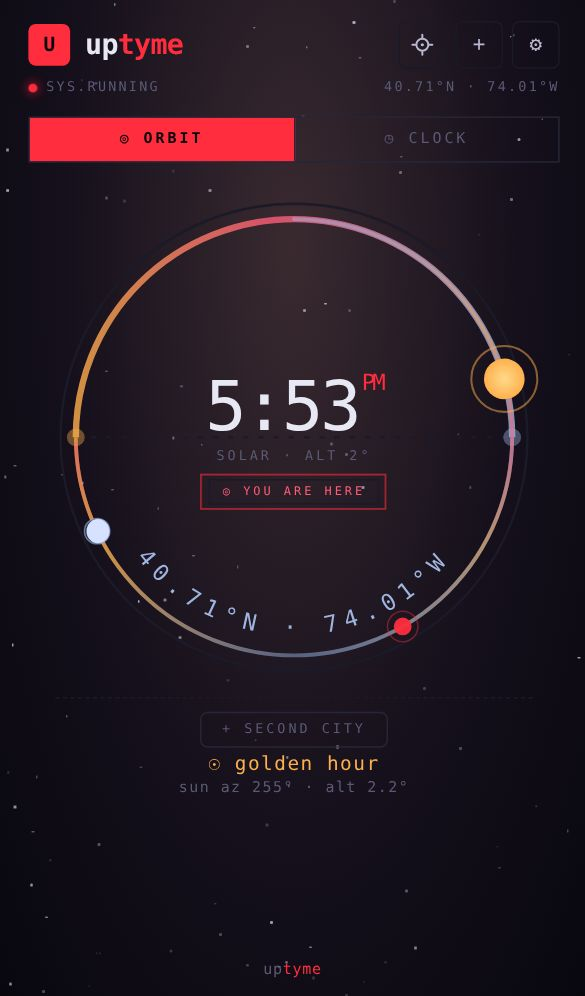
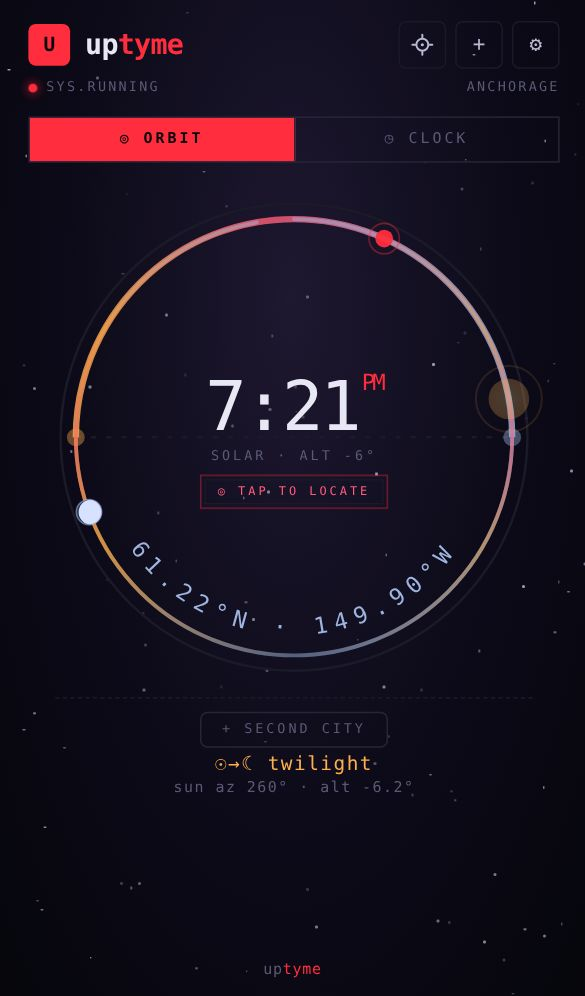
feat(hub): real captures from Anchorage, Alaska; drop the tape strip
All five card screenshots retaken with nothing simulated: no
geolocation permission, real clock, host time zone. The place was
chosen through each app's own city search ("Anchorage" -> Anchorage,
Alaska, United States):
- starnav, uptyme, bewthr (Continuum, toggled in Settings): Anchorage
- almanac: Anchorage searched in-app; captured when the globe's own
  spin brought the Anchorage pip into view
- velocity: a real speed test from this machine (it has no location)

Alt text for bewthr and almanac now names Anchorage. The decorative
.shot::after "tape" strip is removed: it clipped to a grey block over
each app's header.

Rollback: git reset --hard pre-real-shots-2026-10-19 && git push --force-with-lease origin main

Claude-Session: https://claude.ai/code/session_01Fkcy83a99eAxkqh83U9V1n

diff --git a/index.html b/index.html
@@ -80,8 +80,6 @@ h1 b{color:var(--cyan);font-weight:700}
 /* the app screenshot, pinned to the sheet */
 .shot{position:relative;aspect-ratio:585/996;border-radius:10px;overflow:hidden;background:#050506;border:1px solid #26262c}
 .shot img{display:block;width:100%;height:100%;object-fit:cover;object-position:top}
-.shot::after{content:"";position:absolute;left:50%;top:-6px;width:74px;height:20px;transform:translateX(-50%) rotate(-2deg);
-  background:rgba(255,255,255,.12);box-shadow:0 1px 2px rgba(0,0,0,.3)}
 .top{display:flex;align-items:center;gap:12px;margin-top:.35rem}
 .badge{width:36px;height:36px;border-radius:10px;flex:none;display:flex;align-items:center;justify-content:center;font-weight:700;font-size:18px;color:#05070f;background:var(--a)}
 .nm{font-size:1.45rem;font-weight:700;letter-spacing:-.01em}
@@ -128,13 +126,13 @@ footer a:hover{color:var(--cyan)}
       <div class="meta"><span class="ax">time</span> <span class="go">open ↗</span></div>
     </a>
     <a class="card" style="--a:#f5a623" href="https://codereimagine.github.io/bewthr/">
-      <div class="shot"><img src="screens/bewthr.jpg" width="585" height="996" alt="bewthr on a phone: the Continuum face — now, and the next 24 hours to scrub, over a live evening sky" loading="lazy" decoding="async"></div>
+      <div class="shot"><img src="screens/bewthr.jpg" width="585" height="996" alt="bewthr on a phone: the Continuum face for Anchorage, Alaska — rain now, and the next 24 hours to scrub" loading="lazy" decoding="async"></div>
       <div class="top"><div class="badge">B</div><div class="nm">be<b>wthr</b></div></div>
       <div class="tag">The weather, shown as a real, living sky — day, night, stars and the true moon.</div>
       <div class="meta"><span class="ax">continuum</span> <span class="go">open ↗</span></div>
     </a>
     <a class="card" style="--a:#7fd9ff" href="https://codereimagine.github.io/almanac/">
-      <div class="shot"><img src="screens/almanac.jpg" width="585" height="996" alt="almanac on a phone: a glowing globe with live earthquake markers" loading="lazy" decoding="async"></div>
+      <div class="shot"><img src="screens/almanac.jpg" width="585" height="996" alt="almanac on a phone: a glowing globe with Anchorage, Alaska marked and the Calibration instrument live" loading="lazy" decoding="async"></div>
       <div class="top"><div class="badge">A</div><div class="nm">almanac</div></div>
       <div class="tag">A living globe of Earth's systems — the planet, right now.</div>
       <div class="meta"><span class="ax">earth systems</span> <span class="go">open ↗</span></div>
